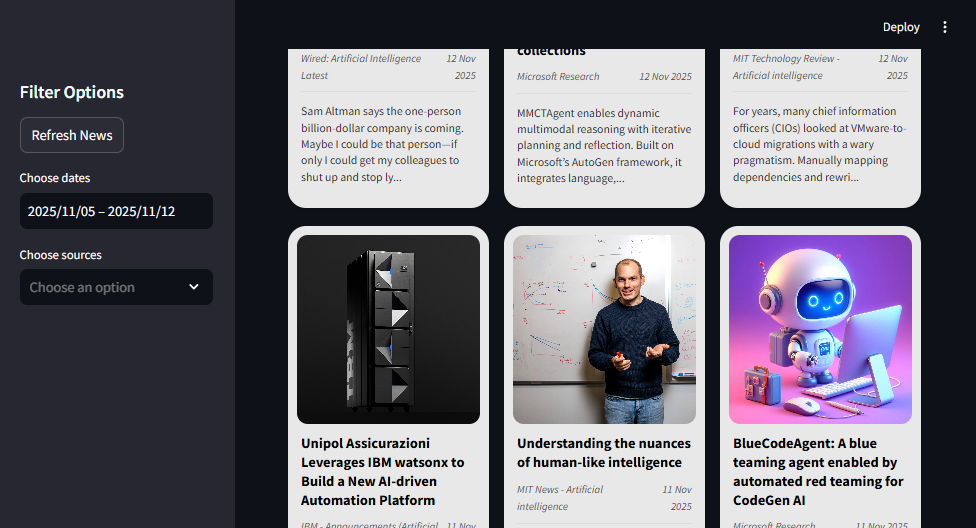
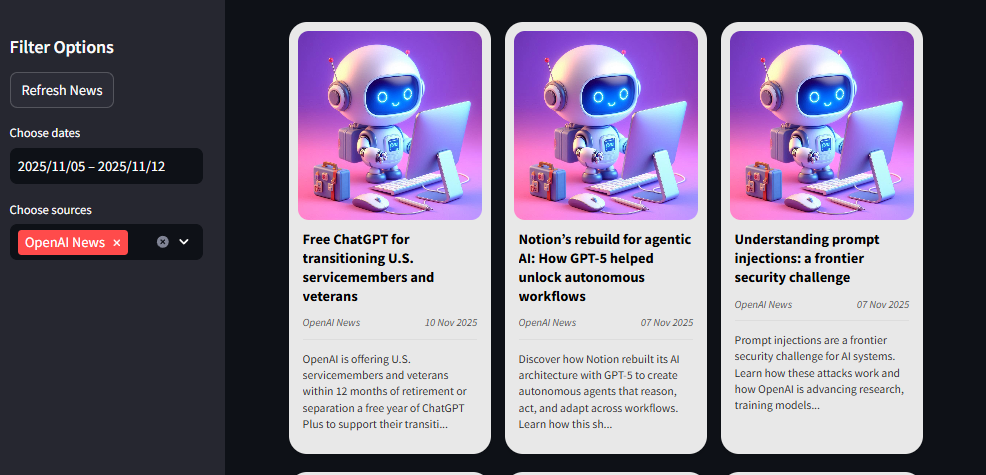
update readme file

diff --git a/README.md b/README.md
@@ -1,45 +1,74 @@
+# 🧠 Latest AI News
 
-# Latest AI News
+Stay up to date with the **most recent and impactful developments** in Artificial Intelligence.
+This repository curates the latest **research papers, product launches, breakthroughs, and industry insights** — designed for AI enthusiasts, researchers, students, and professionals alike.
 
-This repository serves as a curated collection of the most recent and significant developments in artificial intelligence. The goal is to provide AI enthusiasts, researchers, students, and professionals with a centralized resource to stay updated on breakthroughs, research papers, product launches, and industry trends.
+---
 
-## Contents
+## 📚 Overview
 
-This repository includes:
+This repository provides a **centralized hub** for accessing the newest AI-related updates, including:
 
-- News about major AI product releases
-- Updates on AI industry trends
-- Insights from AI conferences and events
-- Resources for learning about new AI technologies
+* 📰 Major AI product releases
+* 📈 Emerging industry trends
+* 🎓 Insights from AI conferences and events
+* 🧩 Learning resources about cutting-edge AI technologies
 
-## Screenshots
+---
 
-![img 1](imgs/img2.png)
+## 🖼 Screenshots
+
+![img 1](imgs/img2.png) 
+
+- Filter By Publisher
 
 ![img 2](imgs/img3.png)
 
+---
 
 ## ✨ Features
 
-- **Modern Card-Based Interface**: News displayed in an elegant three-column grid layout
-- **Responsive Design**: Works well on different screen sizes
-- **RSS Feed Integration**: Automatically pulls content from top AI news sources
-- **Smart Filtering**: Filter news by date range and source
-- **Customizable View**: Select specific news sources or view all content
-- **Real-time Updates**: Refresh data with a single click
-- **Image Support**: Displays source images when available
+* **🃏 Modern Card-Based Interface** — Elegant, three-column grid layout for smooth browsing
+* **📱 Responsive Design** — Optimized for all screen sizes
+* **🔗 RSS Feed Integration** — Pulls fresh content from top AI news sources automatically
+* **🧠 Smart Filtering** — Filter by date range, source, or topic
+* **⚙ Customizable View** — Select preferred news sources or show all updates
+* **⏱ Real-time Updates** — Refresh with one click to fetch the latest stories
+* **🖼 Image Support** — Displays featured images when available
 
+---
 
 ## 💻 Technical Details
 
-- **Framework**: Built with Streamlit for rapid development and easy deployment
-- **Data Sources**: Aggregates news from 12+ leading AI publications including:
-  - Google DeepMind Blog
-  - OpenAI News
-  - MIT Technology Review
-  - NVIDIA Blog
-  - Microsoft Research
-  - The Berkeley AI Research Blog
-  - And more...
-- **Automatic Content Processing**: Handles different date formats and content structures
-- **Parallel Processing**: Uses concurrent fetching for faster data retrieval
+* **Framework**: [Streamlit](https://streamlit.io) — for fast development and easy deployment
+* **Data Sources**: Aggregates news from **12+ leading AI publications**, including:
+
+  * Google DeepMind Blog
+  * OpenAI News
+  * MIT Technology Review
+  * NVIDIA Blog
+  * Microsoft Research
+  * The Berkeley AI Research Blog
+  * *and more...*
+* **Automatic Content Processing** — Adapts to different date formats and content structures
+* **Parallel Processing** — Uses concurrent fetching for faster data retrieval
+
+---
+
+## 🚀 Getting Started 
+
+If you want to include setup instructions later, you can add something like:
+
+```bash
+# Clone the repository
+git clone https://github.com/drisskhattabi6/latest-ai-news.git
+
+# Navigate into the folder
+cd latest-ai-news
+
+# Install dependencies
+pip install -r requirements.txt
+
+# Run the app
+streamlit run app.py
+```
